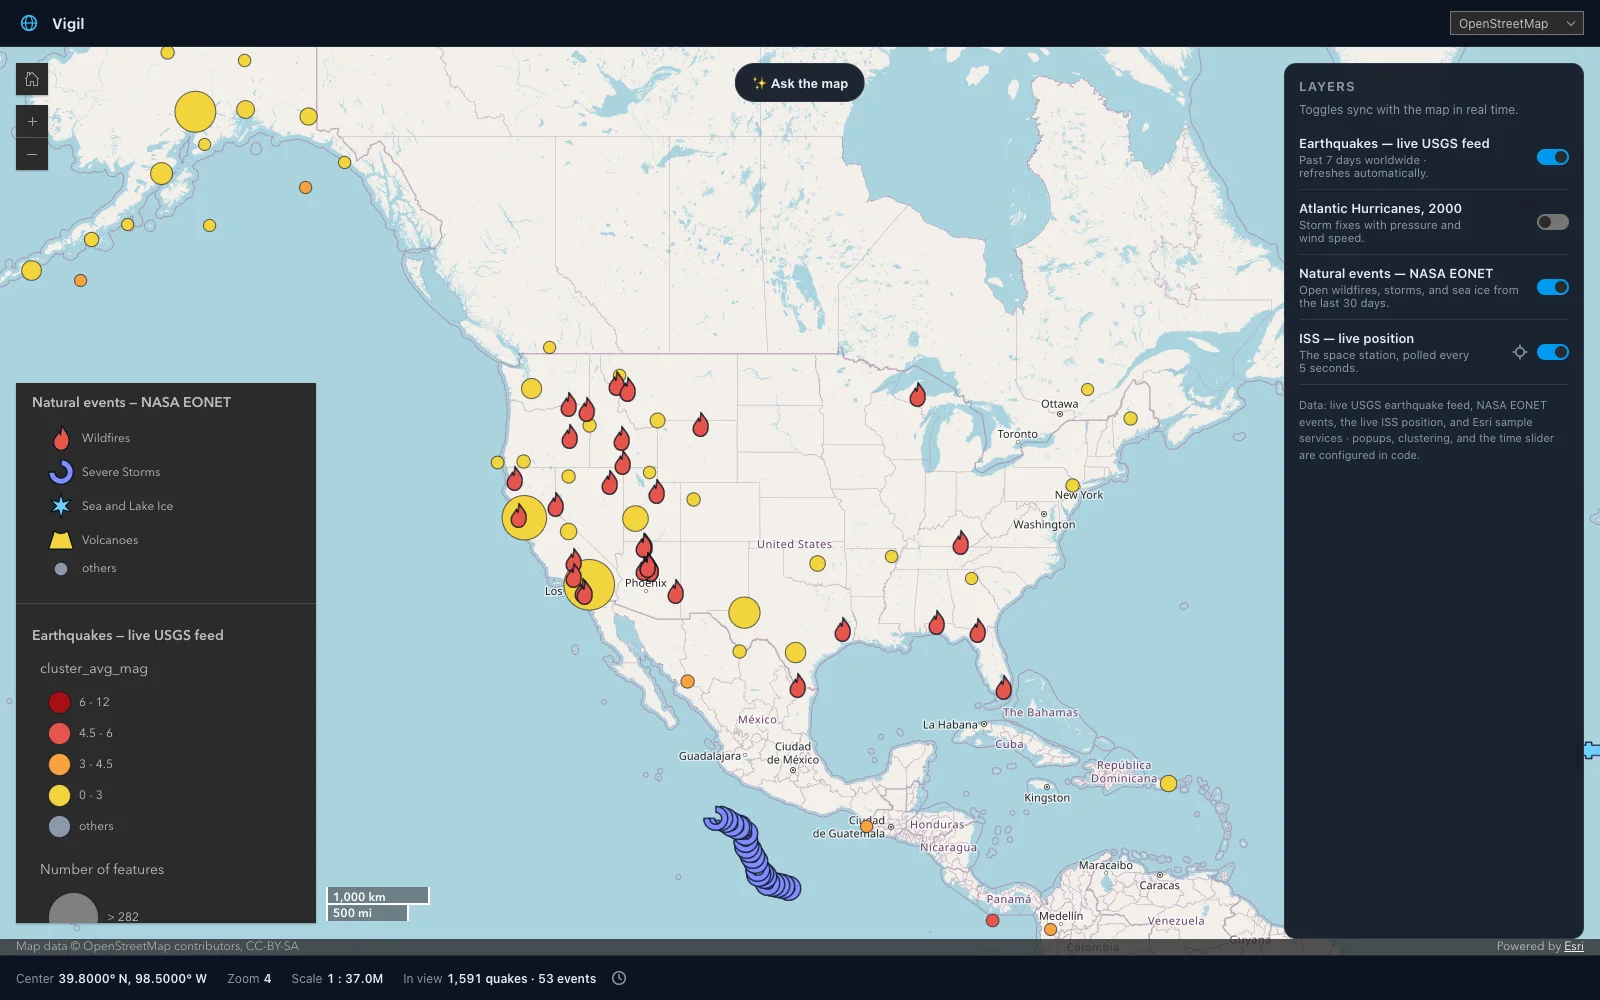
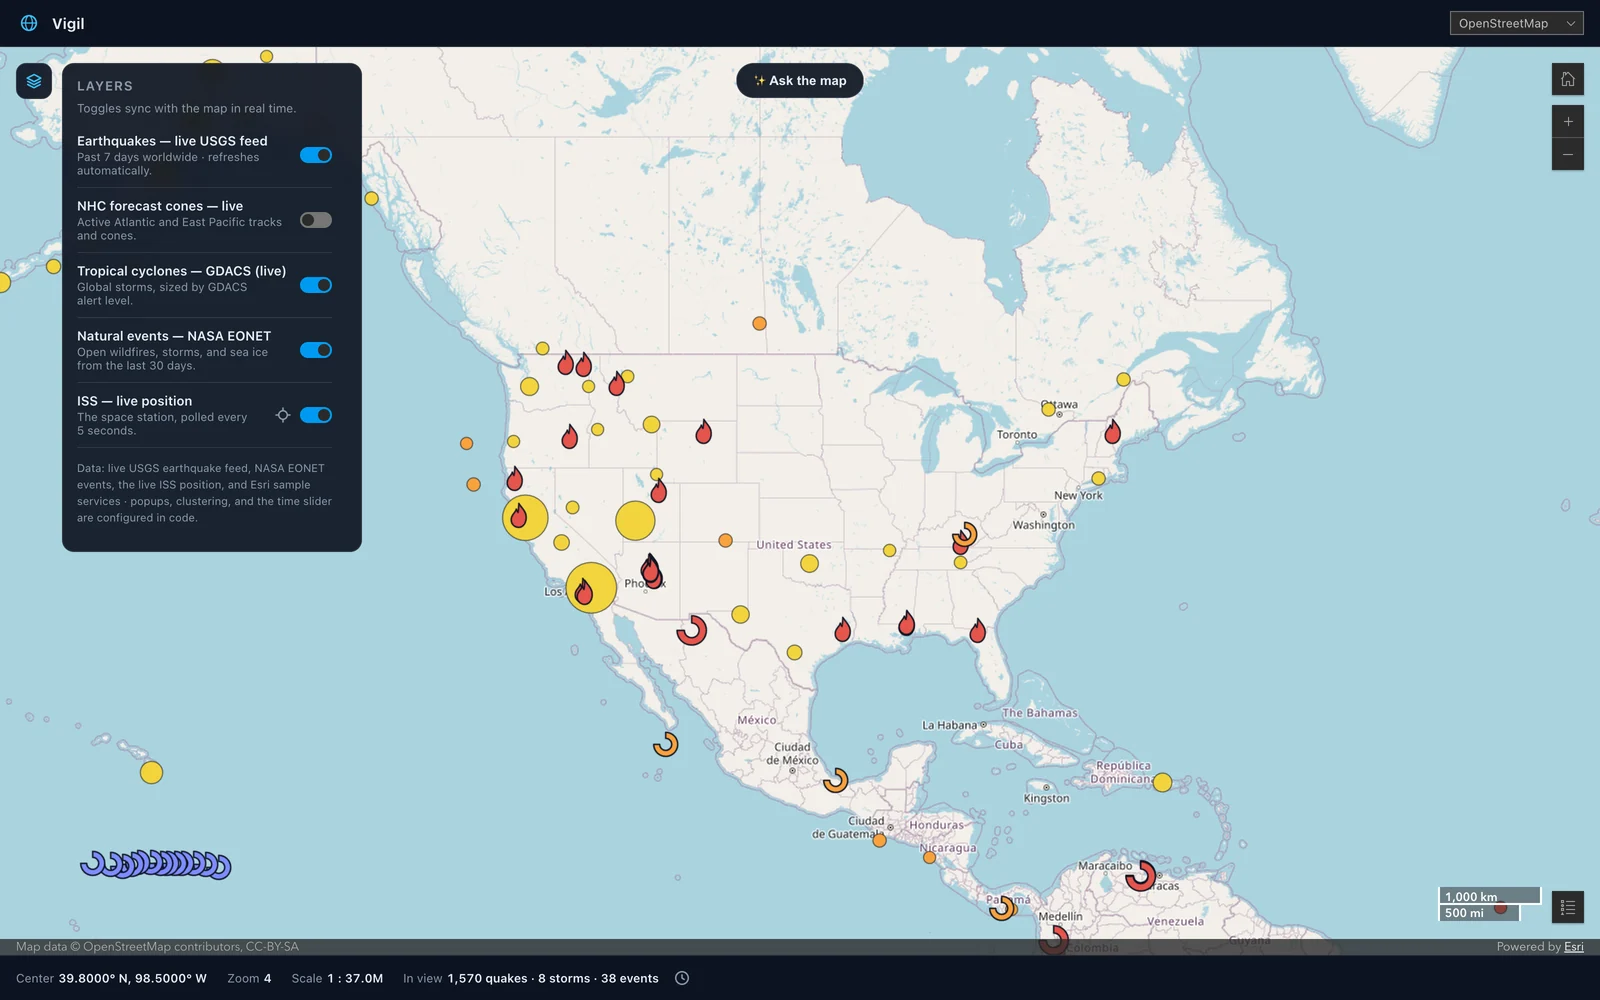
chore(projects): refresh the Vigil screenshot
Capture the current demo with the layers rail and live hazard layers, and update the card alt text to describe it.

diff --git a/src/data/projects.ts b/src/data/projects.ts
@@ -51,7 +51,7 @@ export const PROJECTS: Project[] = [
     demoUrl: "https://vigil.georgesuarezdev.workers.dev",
     media: {
       src: "/projects/vigil.webp",
-      alt: "Vigil's live hazard map showing earthquakes, wildfires, storms, and the ISS layer over North America.",
+      alt: "Vigil's live hazard map over North America with earthquake and storm markers and its layers panel open to USGS earthquakes, NHC forecast cones, GDACS tropical cyclones, NASA natural events, and the ISS.",
     },
   },
   {
